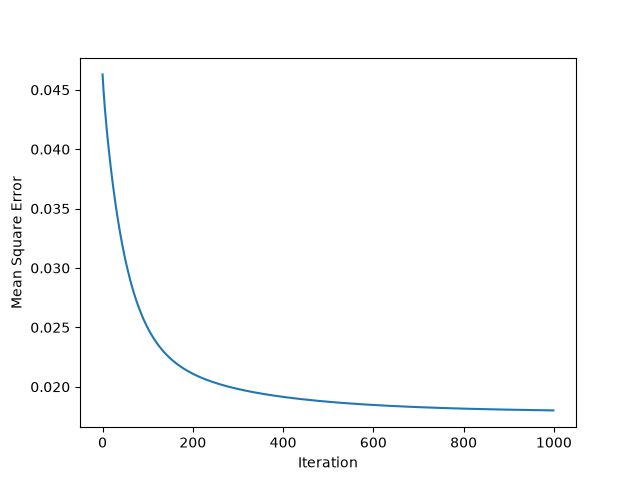
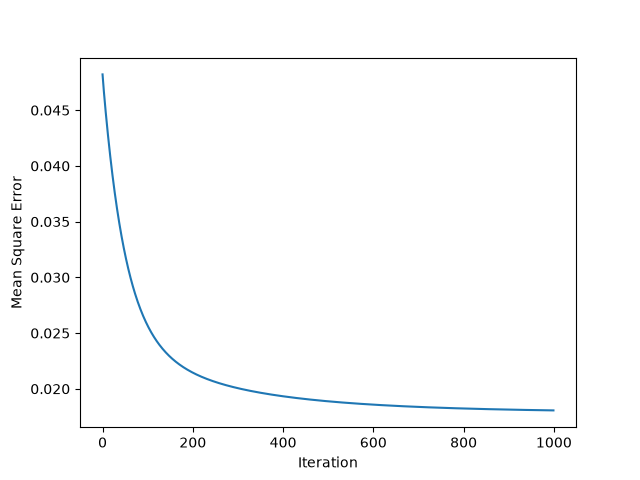
Fix task 1

diff --git a/Homework5/hw5_task1.py b/Homework5/hw5_task1.py
@@ -28,7 +28,7 @@ label_test = data[n - num_test :, -1]
 # pick a proper number of iterations
 num_iter = 1000
 # randomly initialize your w
-w = [random() * 0.01] * p
+w = np.random.rand(p) * 0.01
 
 learning_rate = 0.01
 
